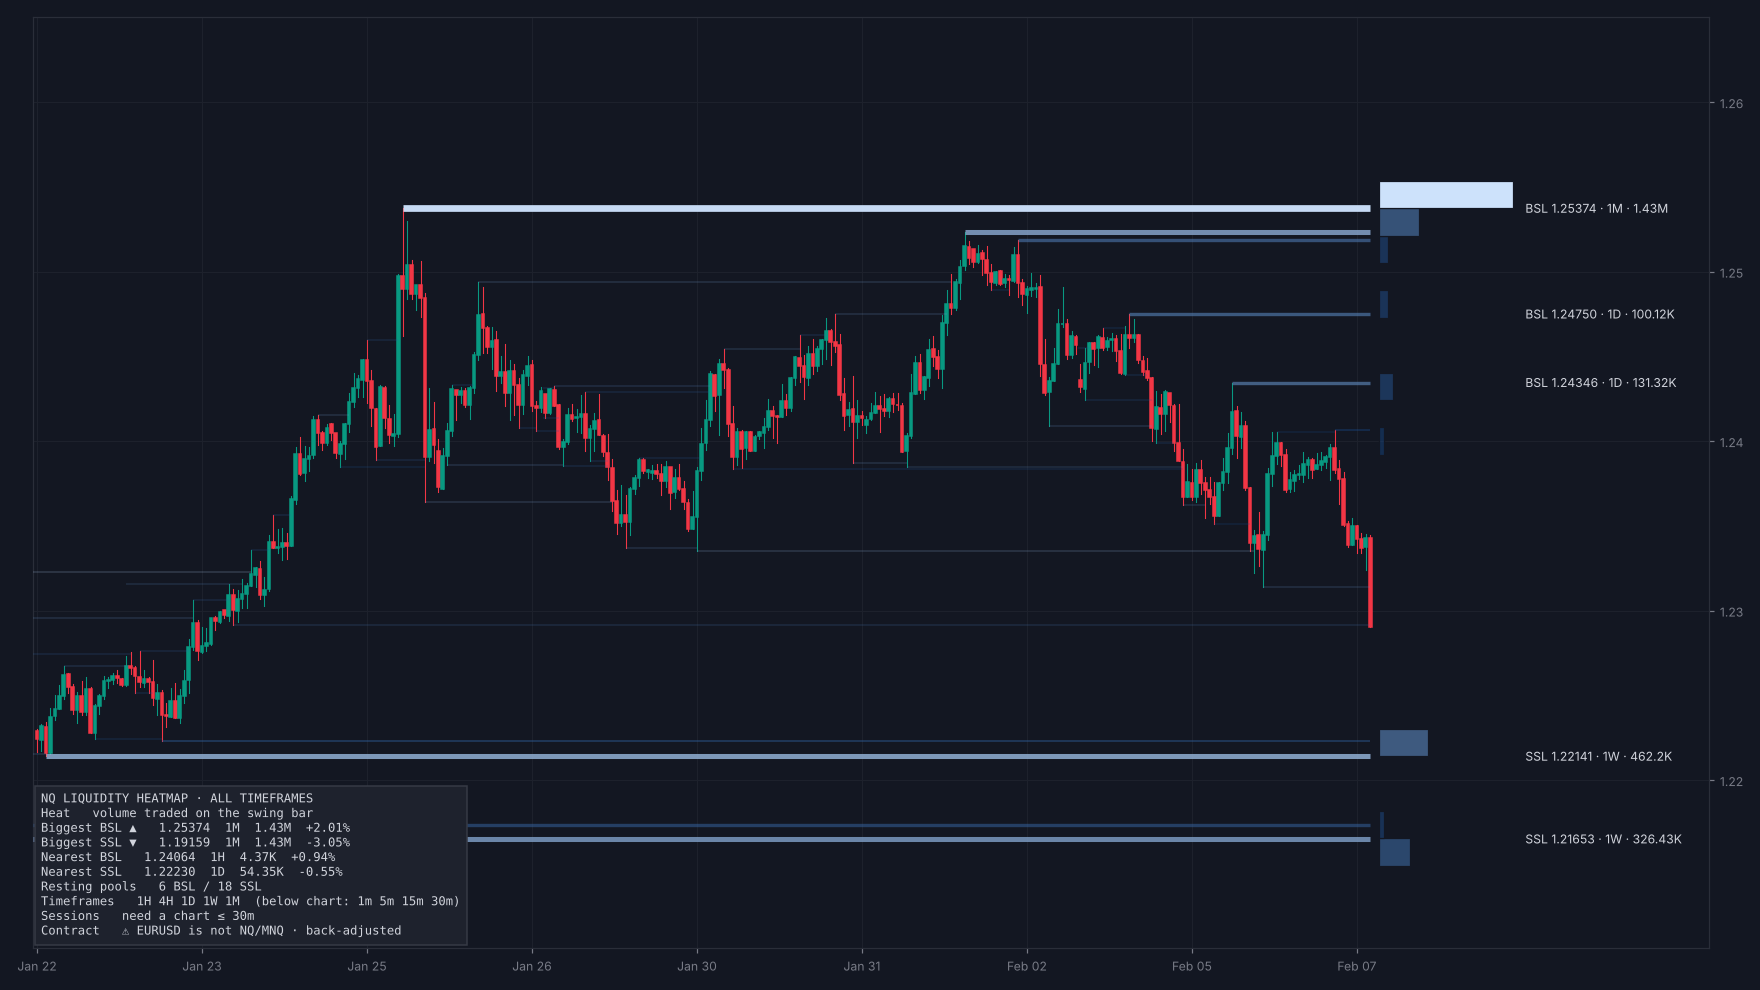
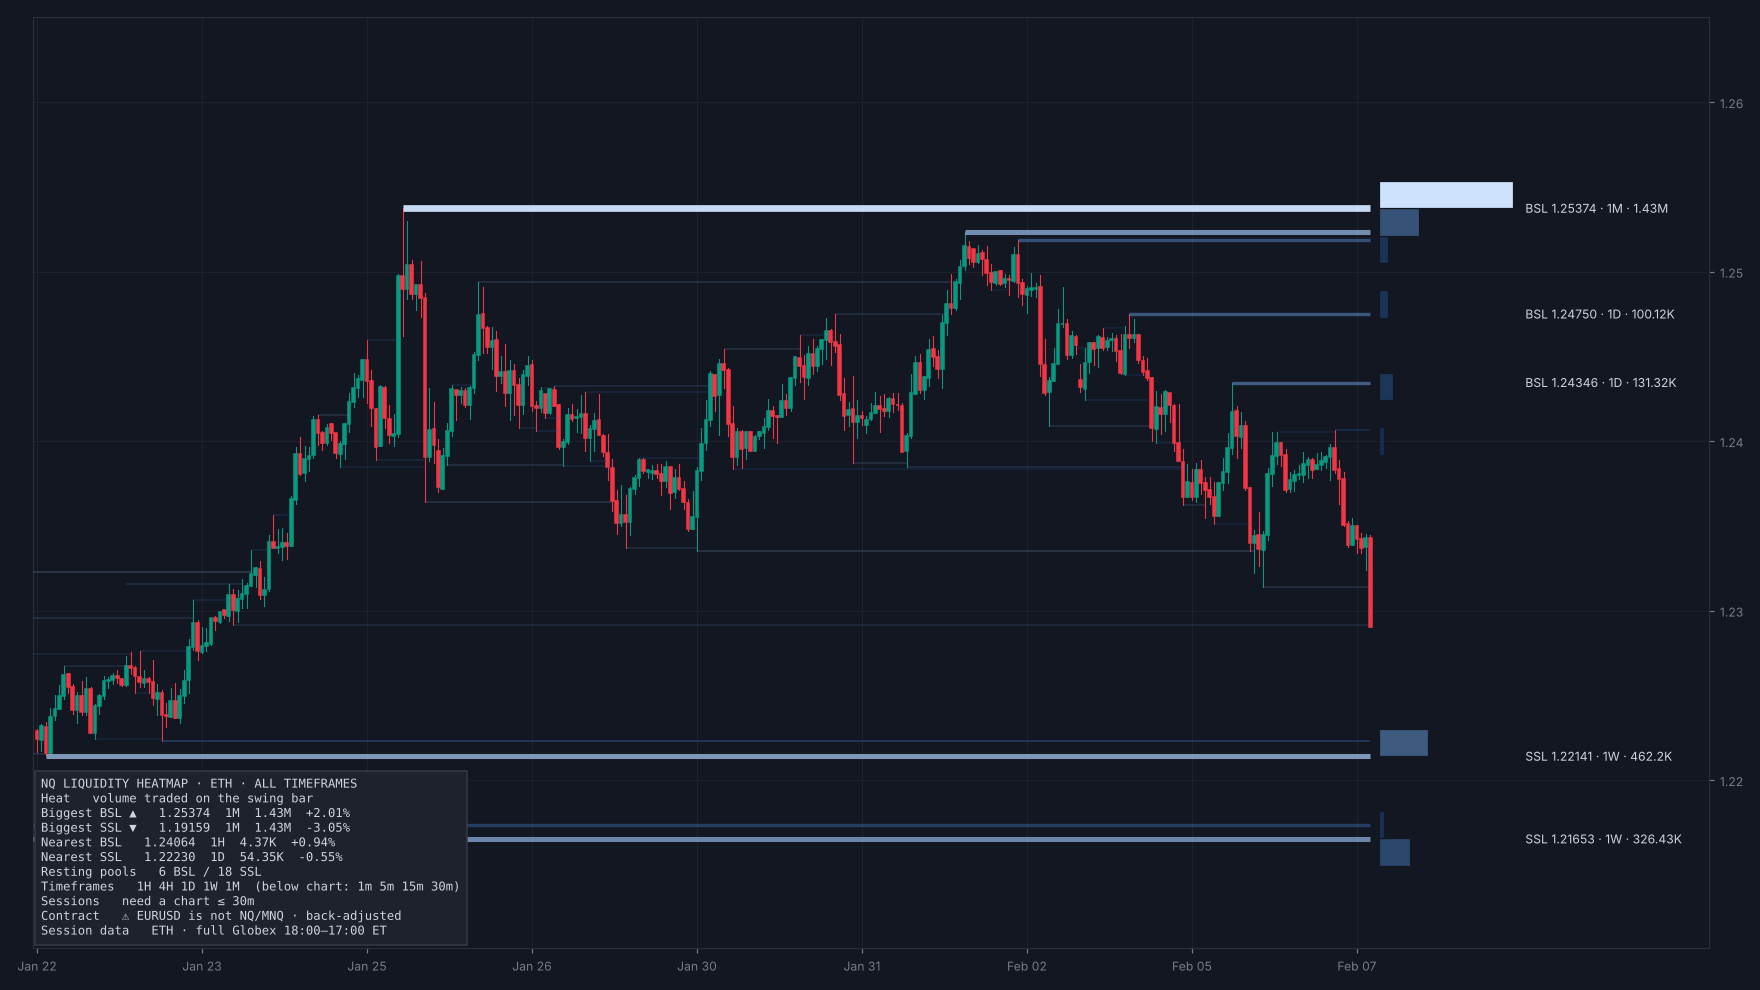
Document the ETH version, the audit fixes and the 29-config verification
Claude-Session: https://claude.ai/code/session_0188ZseRofN2RjfEvRZHBDYR

Changed region(s): [[0.0312, 0.7576, 0.25, 0.9394]]

diff --git a/README.md b/README.md
@@ -386,20 +386,50 @@ books, PDH/PDL mode, session books, merging, sweeps, alerts and the profile.
 Session runs use sessions on the hour, because 1H is the finest real data
 available.
 
-- 25 configurations: 1H/4H/D charts; swing settings 2/1 to 10/5; caps 1 to
-  20; every-bar mode on and off; RTH/overnight sessions; different chart start
-  points, including five (seven runs) where a higher-timeframe level was
-  taken before the chart's first bar; and a no-volume feed.
-- Checked on every bar (60,835 chart bars): all 8 Data Window series.
-  Checked on every sweep (15,136): the alert. Checked on the last bar: the
+- 29 configurations: 1H/3H/4H/D charts; swing settings 2/1 to 10/5; caps 1
+  to 20; every-bar mode on and off; RTH/overnight sessions; different chart
+  start points, including five (seven runs) where a higher-timeframe level was
+  taken before the chart's first bar; a 3H chart with a 4H source, so source
+  boundaries fall inside chart bars (sweeps judged on the real 1H bars); an
+  RTH-only symbol whose sessions follow each other with no bar in between;
+  and a no-volume feed.
+- Checked on every bar (64,765 chart bars): all 8 Data Window series.
+  Checked on every sweep (16,273): the alert. Checked on the last bar: the
   drawn profile.
-- **Result: 0 mismatches after warm-up in all 25.** "Warm-up" means only the
+- **Result: 0 mismatches after warm-up in all 29.** "Warm-up" means only the
   first, partial bar of the finest requested source above the chart (for
   example the first 4H bar of a 1H chart), which has no finer data to check
   it against. It resolves when that bar closes.
 
 Reproduce with `backtest/nq_liquidity_heatmap/verify.sh`. It installs PineTS
 and the data package into a temp dir; needs python3 and node ≥ 20.
+
+An adversarial audit then went over the whole script for things TradingView
+would reject or mis-run that PineTS cannot show. Five independent lenses
+looked for them: types and qualifiers, runtime limits, ETH/session
+semantics, repaint and realtime, and the API surface. Two skeptics each
+tried to refute every finding. 8 were confirmed and fixed:
+
+- **Inverted RTH check.** On CME futures TradingView names the full ETH
+  session "regular" (RTH is "us_regular"), so the RTH warning was inverted.
+- **Table merge on live updates.** Re-merging the table header on every
+  realtime update is a documented error.
+- **Misaligned timeframes (two fixes).** On misaligned timeframes, the bar
+  straddling a new snapshot was not checked for sweeps, and realtime
+  processed new snapshots one bar earlier than history.
+- **Non-standard charts.** Heikin Ashi/Renko charts would have fed synthetic
+  prices into the books.
+- **RTH chart series.** On an RTH chart, the chart-side series did not line
+  up with the chart's bars.
+- **Back-to-back sessions.** Session instances that follow each other with
+  no out-of-session bar never closed.
+- **TradingView rules from this repo's earlier MNQ scripts.** The shorttitle
+  must be at most 10 characters, and a timeframe set to "Chart" ("") must
+  never be sliced with `str.substring`.
+
+The two new fixtures above reproduce two of these on real data. The
+pre-audit commit fails them (2 and 888 series mismatches after warm-up), and
+the current script passes.
 
 Two PineTS 0.11 bugs turned up and were kept out of the indicator:
 
